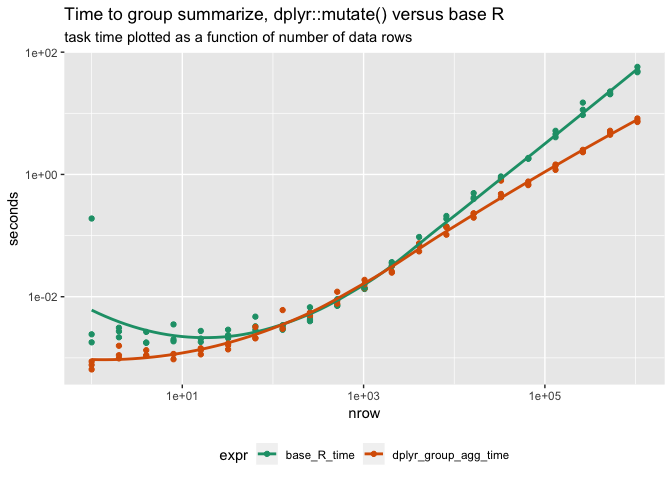
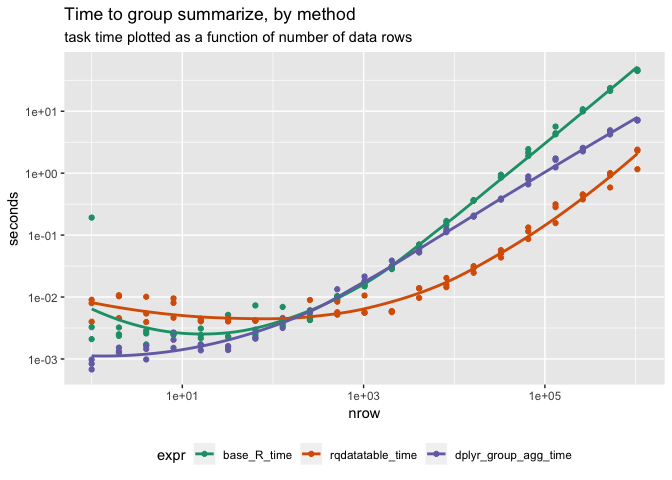
add rqdatatable

diff --git a/dplyr/time_grouped_summary.md b/dplyr/time_grouped_summary.md
@@ -34,6 +34,17 @@ library("rqdatatable")
 
 ``` r
 library("cdata")
+library("wrapr")
+```
+
+    ## 
+    ## Attaching package: 'wrapr'
+
+    ## The following object is masked from 'package:dplyr':
+    ## 
+    ##     coalesce
+
+``` r
 packageVersion("dplyr")
 ```
 
@@ -107,11 +118,11 @@ d %.>%
 
 |    col\_1 |    col\_2 | group\_1 | group\_2 |
 | --------: | --------: | :------- | :------- |
-| 0.1419297 | 0.8729708 | a        | a        |
-| 0.9063941 | 0.6731498 | b        | a        |
-| 0.8010750 | 0.7861796 | a        | a        |
-| 0.6259197 | 0.5756482 | b        | a        |
-| 0.6721926 | 0.1457101 | b        | b        |
+| 0.8097685 | 0.3365113 | a        | a        |
+| 0.4884981 | 0.7870978 | b        | a        |
+| 0.1375909 | 0.8189787 | b        | b        |
+| 0.4216615 | 0.9880847 | b        | b        |
+| 0.9531570 | 0.4267701 | b        | a        |
 
 ``` r
 group_cols <- c("group_1", "group_2")
@@ -124,11 +135,43 @@ window_summary_base(d, group_cols, target_cols, new_names, sum) %.>%
 
 | group\_1 | group\_2 |    col\_1 |    col\_2 | col\_1\_sum | col\_2\_sum |
 | :------- | :------- | --------: | --------: | ----------: | ----------: |
-| a        | a        | 0.1419297 | 0.8729708 |   0.9430047 |   1.6591504 |
-| a        | a        | 0.8010750 | 0.7861796 |   0.9430047 |   1.6591504 |
-| b        | a        | 0.9063941 | 0.6731498 |   1.5323139 |   1.2487980 |
-| b        | a        | 0.6259197 | 0.5756482 |   1.5323139 |   1.2487980 |
-| b        | b        | 0.6721926 | 0.1457101 |   0.6721926 |   0.1457101 |
+| a        | a        | 0.8097685 | 0.3365113 |   0.8097685 |   0.3365113 |
+| b        | a        | 0.4884981 | 0.7870978 |   1.4416551 |   1.2138679 |
+| b        | a        | 0.9531570 | 0.4267701 |   1.4416551 |   1.2138679 |
+| b        | b        | 0.1375909 | 0.8189787 |   0.5592524 |   1.8070634 |
+| b        | b        | 0.4216615 | 0.9880847 |   0.5592524 |   1.8070634 |
+
+``` r
+#' Add aggregations of target columns by groups to data.frame.
+#' 
+#' @param d data.frame to work with
+#' @param group_cols names of columns to group by (non-empty).
+#' @param target_cols names of columns to summarize (non-empty).
+#' @param new_names new column names for results.
+#' @param FUN aggregation function
+#' @param env evaluatin environment
+#' @return d with new per-group aggregation columns added
+#'
+window_summary_rqdatatable <- function(d, group_cols, target_cols, 
+                                       new_names = paste0(target_cols, "_sum"), 
+                                       FUN = sum,
+                                       env = parent.frame()) {
+  extend_se(d, 
+            new_names := paste("FUN(", target_cols, ")"),
+            partitionby = group_cols)
+}
+
+window_summary_rqdatatable(d, group_cols, target_cols, new_names, sum) %.>%
+  knitr::kable(.)
+```
+
+|    col\_1 |    col\_2 | group\_1 | group\_2 | col\_1\_sum | col\_2\_sum |
+| --------: | --------: | :------- | :------- | ----------: | ----------: |
+| 0.8097685 | 0.3365113 | a        | a        |   0.8097685 |   0.3365113 |
+| 0.4884981 | 0.7870978 | b        | a        |   1.4416551 |   1.2138679 |
+| 0.9531570 | 0.4267701 | b        | a        |   1.4416551 |   1.2138679 |
+| 0.1375909 | 0.8189787 | b        | b        |   0.5592524 |   1.8070634 |
+| 0.4216615 | 0.9880847 | b        | b        |   0.5592524 |   1.8070634 |
 
 ``` r
 #' Add aggregations of target columns by groups to data.frame.
@@ -173,11 +216,11 @@ window_summary_dplyr(d, group_cols, target_cols, new_names, sum) %.>%
 
 |    col\_1 |    col\_2 | group\_1 | group\_2 | col\_1\_sum | col\_2\_sum |
 | --------: | --------: | :------- | :------- | ----------: | ----------: |
-| 0.1419297 | 0.8729708 | a        | a        |   0.9430047 |   1.6591504 |
-| 0.9063941 | 0.6731498 | b        | a        |   1.5323139 |   1.2487980 |
-| 0.8010750 | 0.7861796 | a        | a        |   0.9430047 |   1.6591504 |
-| 0.6259197 | 0.5756482 | b        | a        |   1.5323139 |   1.2487980 |
-| 0.6721926 | 0.1457101 | b        | b        |   0.6721926 |   0.1457101 |
+| 0.8097685 | 0.3365113 | a        | a        |   0.8097685 |   0.3365113 |
+| 0.4884981 | 0.7870978 | b        | a        |   1.4416551 |   1.2138679 |
+| 0.1375909 | 0.8189787 | b        | b        |   0.5592524 |   1.8070634 |
+| 0.4216615 | 0.9880847 | b        | b        |   0.5592524 |   1.8070634 |
+| 0.9531570 | 0.4267701 | b        | a        |   1.4416551 |   1.2138679 |
 
 ``` r
 f <- function(k) {
@@ -188,6 +231,7 @@ f <- function(k) {
   gc()
   tm <- microbenchmark::microbenchmark(
     base_R_time = window_summary_base(d, group_cols, target_cols, new_names, sum),
+    rqdatatable_time = window_summary_rqdatatable(d, group_cols, target_cols, new_names, sum),
     dplyr_group_agg_time = window_summary_dplyr(d, group_cols, target_cols, new_names, sum),
     times = 3L
   )
@@ -211,82 +255,10 @@ ggplot(data = times,
   scale_y_log10() + 
   theme(legend.position = "bottom") +
   scale_color_brewer(palette = "Dark2") +
-  ggtitle("Time to group summarize, dplyr::mutate() versus base R",
+  ggtitle("Time to group summarize, by method",
           subtitle = "task time plotted as a function of number of data rows")
 ```
 
     ## `geom_smooth()` using method = 'loess' and formula 'y ~ x'
 
 ![](time_grouped_summary_files/figure-gfm/unnamed-chunk-1-1.png)<!-- -->
-
-``` r
-# compute time ratios
-layout <- blocks_to_rowrecs_spec(
-  wrapr::qchar_frame(
-    "expr"         , "seconds"     |
-      "dplyr_group_agg_time", dplyr_group_agg_time |
-      'base_R_time'     , base_R_time      ),
-  recordKeys = "nrow")
-
-print(layout)
-```
-
-    ## {
-    ##  block_record <- wrapr::qchar_frame(
-    ##    "nrow"  , "expr"                , "seconds"            |
-    ##      .     , "dplyr_group_agg_time", dplyr_group_agg_time |
-    ##      .     , "base_R_time"         , base_R_time          )
-    ##  block_keys <- c('nrow', 'expr')
-    ## 
-    ##  # becomes
-    ## 
-    ##  row_record <- wrapr::qchar_frame(
-    ##    "nrow"  , "dplyr_group_agg_time", "base_R_time" |
-    ##      .     , dplyr_group_agg_time  , base_R_time   )
-    ##  row_keys <- c('nrow')
-    ## 
-    ##  # args: c(checkNames = TRUE, checkKeys = TRUE, strict = FALSE, allow_rqdatatable = FALSE)
-    ## }
-
-``` r
-calc_ratios <- local_td(times) %.>%
-  project(., 
-          groupby = c("expr", "nrow"),
-          seconds = mean(seconds)) %.>%
-  layout %.>%
-  extend(.,
-         ratio = dplyr_group_agg_time/base_R_time)
-
-cat(format(calc_ratios))
-```
-
-    ## table(times; 
-    ##   expr,
-    ##   time,
-    ##   ncol,
-    ##   nrow,
-    ##   seconds) %.>%
-    ##  project(., seconds := mean(seconds),
-    ##   g= expr, nrow) %.>%
-    ##  non_sql_node(., blocks_to_rowrecs(.)) %.>%
-    ##  extend(.,
-    ##   ratio := dplyr_group_agg_time / base_R_time)
-
-``` r
-ratios <- times %.>% calc_ratios
-
-ggplot(data = ratios, 
-       mapping = aes(x = nrow, y = ratio)) +
-  geom_point() + 
-  geom_smooth(se = FALSE) + 
-  scale_x_log10() + 
-  scale_y_log10() + 
-  theme(legend.position = "bottom") +
-  scale_color_brewer(palette = "Dark2") +
-  ggtitle("Time to group summarize, dplyr time over base R",
-          subtitle = "ratio plotted as a function of number of data rows")
-```
-
-    ## `geom_smooth()` using method = 'loess' and formula 'y ~ x'
-
-![](time_grouped_summary_files/figure-gfm/unnamed-chunk-1-2.png)<!-- -->
